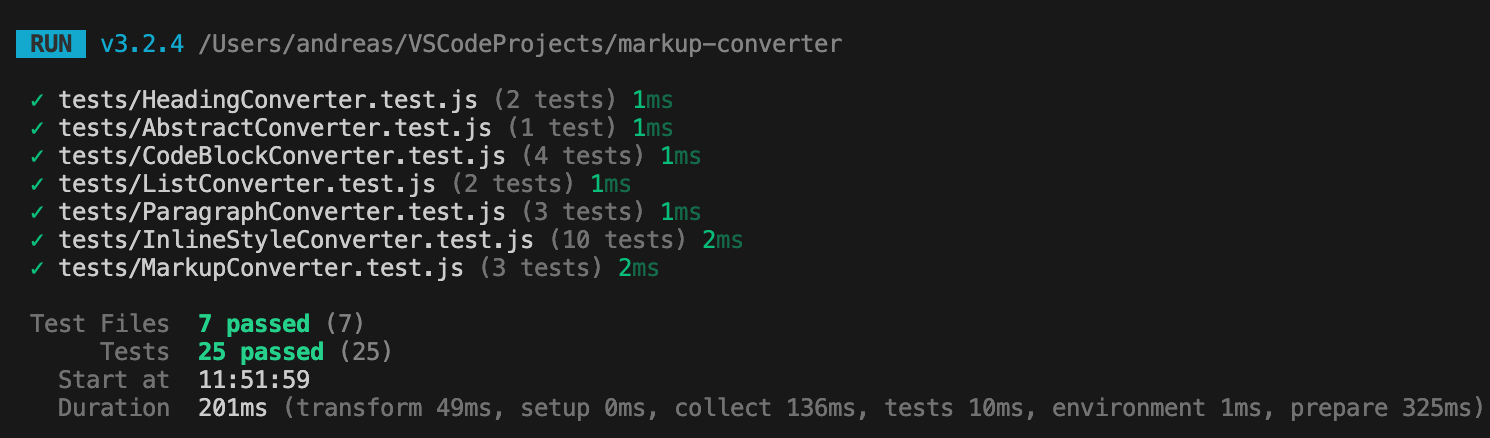
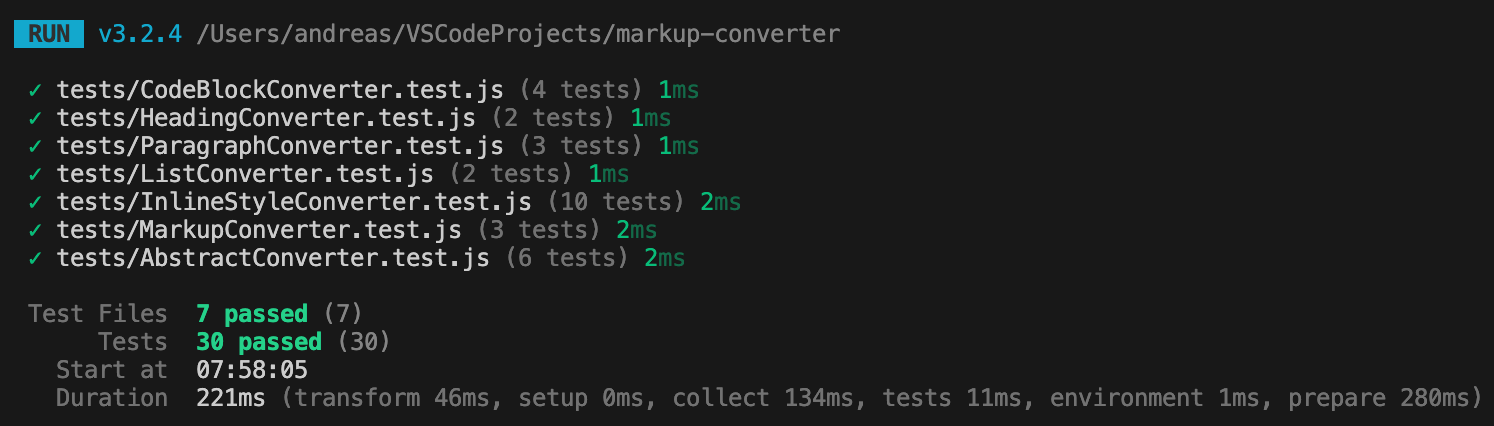
Add input type checking error handling to AbstractConverter

Changed region(s): [[0.0, 0.1831, 0.494, 0.6408], [0.0, 0.7019, 1.0, 0.9765], [0.0, 0.0305, 0.5866, 0.1526]]

diff --git a/tests/AbstractConverter.test.js b/tests/AbstractConverter.test.js
@@ -1,8 +1,35 @@
 import { describe, it, expect } from 'vitest'
 import { AbstractConverter } from '../src/converters/AbstractConverter.js'
+import { HeadingConverter } from '../src/converters/HeadingConverter.js'
+import { InlineStyleConverter } from '../src/converters/InlineStyleConverter.js'
+import { ParagraphConverter } from '../src/converters/ParagraphConverter.js'
+import { ListConverter } from '../src/converters/ListConverter.js'
+import { CodeBlockConverter } from '../src/converters/CodeBlockConverter.js'
 
 describe('AbstractConverter', () => {
   it('should throw error when instantiated', () => {
     expect(() => new AbstractConverter()).toThrow()
+  })
+
+  describe('Input validation for all converters', () => {
+    const converters = [
+      { name: 'HeadingConverter', instance: new HeadingConverter() },
+      { name: 'InlineStyleConverter', instance: new InlineStyleConverter() },
+      { name: 'ParagraphConverter', instance: new ParagraphConverter() },
+      { name: 'ListConverter', instance: new ListConverter() },
+      { name: 'CodeBlockConverter', instance: new CodeBlockConverter() }
+    ]
+
+    converters.forEach(({ name, instance }) => {
+      describe(name, () => {
+        it('should throw TypeError for non-string input', () => {
+          const invalidInputs = [123, null, undefined, [], {}, true, () => {}]
+
+          invalidInputs.forEach((value) => {
+            expect(() => instance.convert(value)).toThrow(TypeError)
+          })
+        })
+      })
+    })
   })
 })

diff --git a/src/converters/AbstractConverter.js b/src/converters/AbstractConverter.js
@@ -17,14 +17,30 @@ export class AbstractConverter {
   }
 
   /**
-   * Converts input text using the specific converter's logic.
+   * Converts text using the specific converter implementation.
    *
+   * @param {string} text - The input text to convert
+   * @returns {string} - The converted text
+   * @throws {TypeError} - If text is not a string
+   */
+  convert(text) {
+    if (typeof text !== 'string') {
+      throw new TypeError(`Expected string, received ${typeof text}`)
+    }
+
+    return this._runConvert(text)
+  }
+
+  /**
+   * Converts input text using the specific converter's logic.
+   * Contains the actual conversion logic.
    * This method must be implemented by subclasses.
    *
    * @abstract
    * @throws {Error} - If not implemented by subclass
    */
-  convert() {
+  // eslint-disable-next-line no-unused-vars
+  _runConvert(text) {
     throw new Error('convert() must be implemented by subclass')
   }
 }

diff --git a/src/converters/InlineStyleConverter.js b/src/converters/InlineStyleConverter.js
@@ -21,7 +21,7 @@ export class InlineStyleConverter extends AbstractConverter {
    * @returns {string} Text with markdown inline formatting converted to HTML tags
    * @override
    */
-  convert(inputText) {
+  _runConvert(inputText) {
     const lines = inputText.split('\n')
     const converted = lines.map((line) => {
       return this.#convertLine(line)

diff --git a/src/converters/ListConverter.js b/src/converters/ListConverter.js
@@ -21,7 +21,7 @@ export class ListConverter extends AbstractConverter {
    * @returns {string} - Text with markdown lists converted to HTML list elements
    * @override
    */
-  convert(text) {
+  _runConvert(text) {
     const textBlocks = text.split('\n\n')
     const taggedBlocks = textBlocks.map((block) => {
       if (this.#isUnorderedList(block)) {

diff --git a/src/converters/CodeBlockConverter.js b/src/converters/CodeBlockConverter.js
@@ -21,7 +21,7 @@ export class CodeBlockConverter extends AbstractConverter {
    * @returns {string} -  Text with markdown code blocks converted to HTML elements
    * @override
    */
-  convert(text) {
+  _runConvert(text) {
     const textBlocks = text.split('\n\n')
 
     const taggedBlocks = textBlocks.map((block) => {

diff --git a/src/converters/HeadingConverter.js b/src/converters/HeadingConverter.js
@@ -21,7 +21,7 @@ export class HeadingConverter extends AbstractConverter {
    * @returns {string} - Text with markdown headings converted to HTML heading tags
    * @override
    */
-  convert(text) {
+  _runConvert(text) {
     const lines = text.split('\n')
 
     const convertedLines = lines.map((line) => {

diff --git a/src/converters/ParagraphConverter.js b/src/converters/ParagraphConverter.js
@@ -18,7 +18,7 @@ export class ParagraphConverter extends AbstractConverter {
    *
    * @override
    */
-  convert(text) {
+  _runConvert(text) {
     const textBlocks = text.split('\n\n')
 
     const taggedBlocks = textBlocks.map((block) => {

diff --git a/testrapport.md b/testrapport.md
@@ -29,7 +29,7 @@ Modulen har testats med en teststrategi som inkluderar både enhetstester för i
 
 <img src="testrapport-image.png" alt="Testresultat" width="800">
 
-- **Totalt antal tester**: 25 testfall fördelade på 7 filer
+- **Totalt antal tester**: 30 testfall fördelade på 7 filer
 - **Framgångsrika tester**: 100%
 - **Misslyckade tester**: 0
 - **Testtäckning**: Omfattar alla publika metoder
